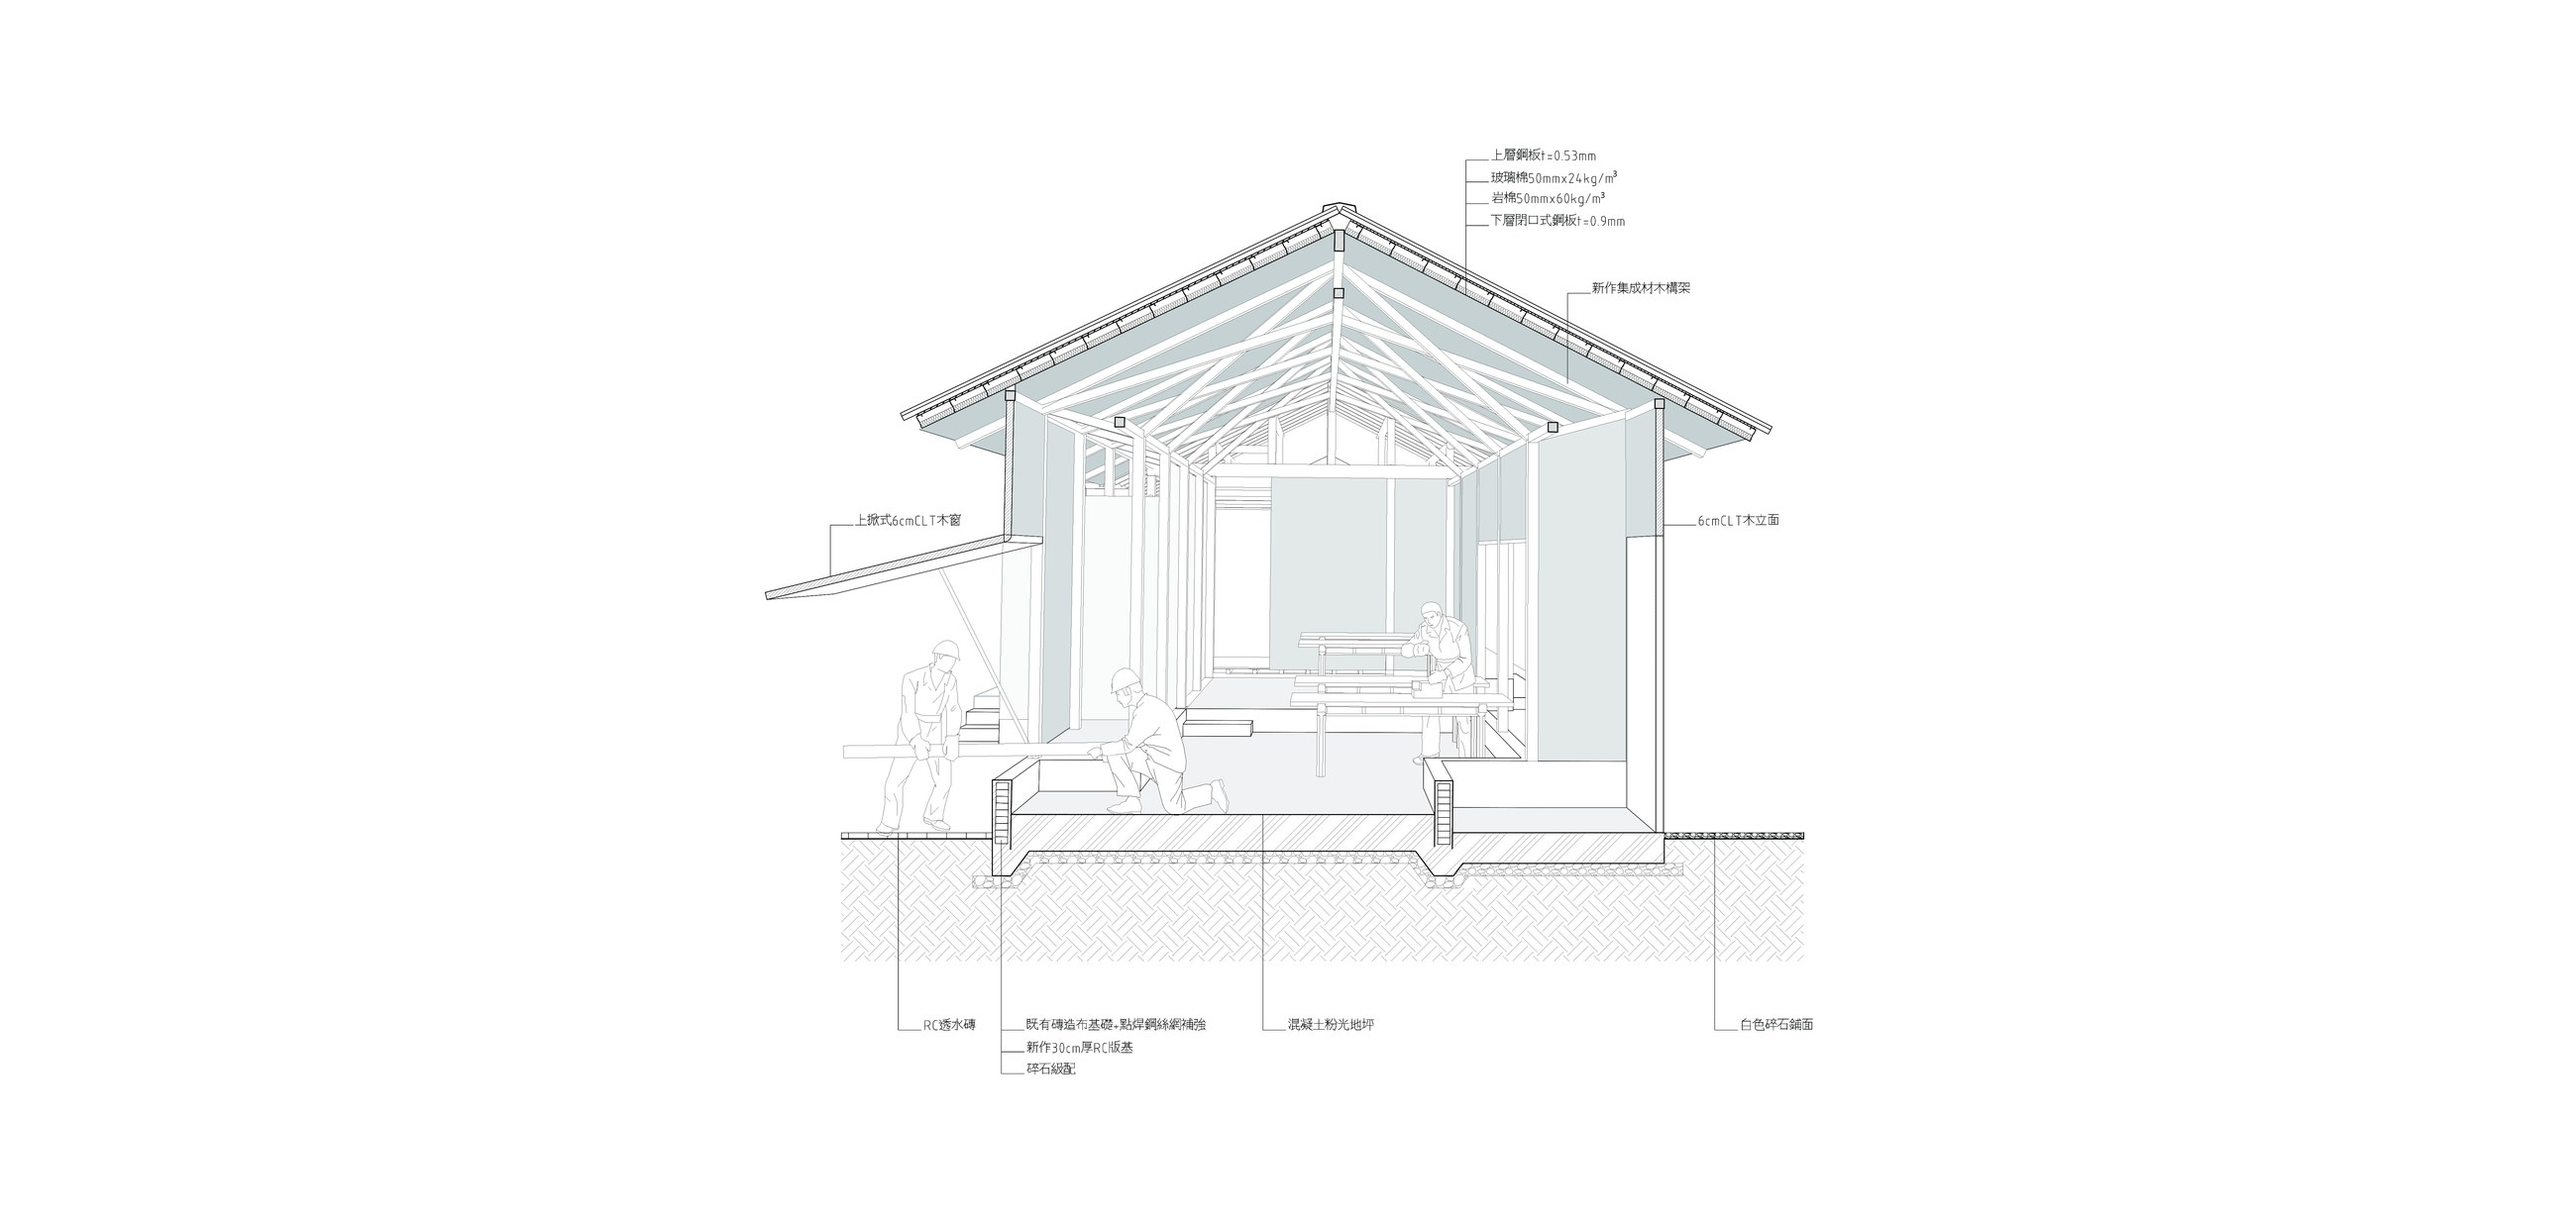
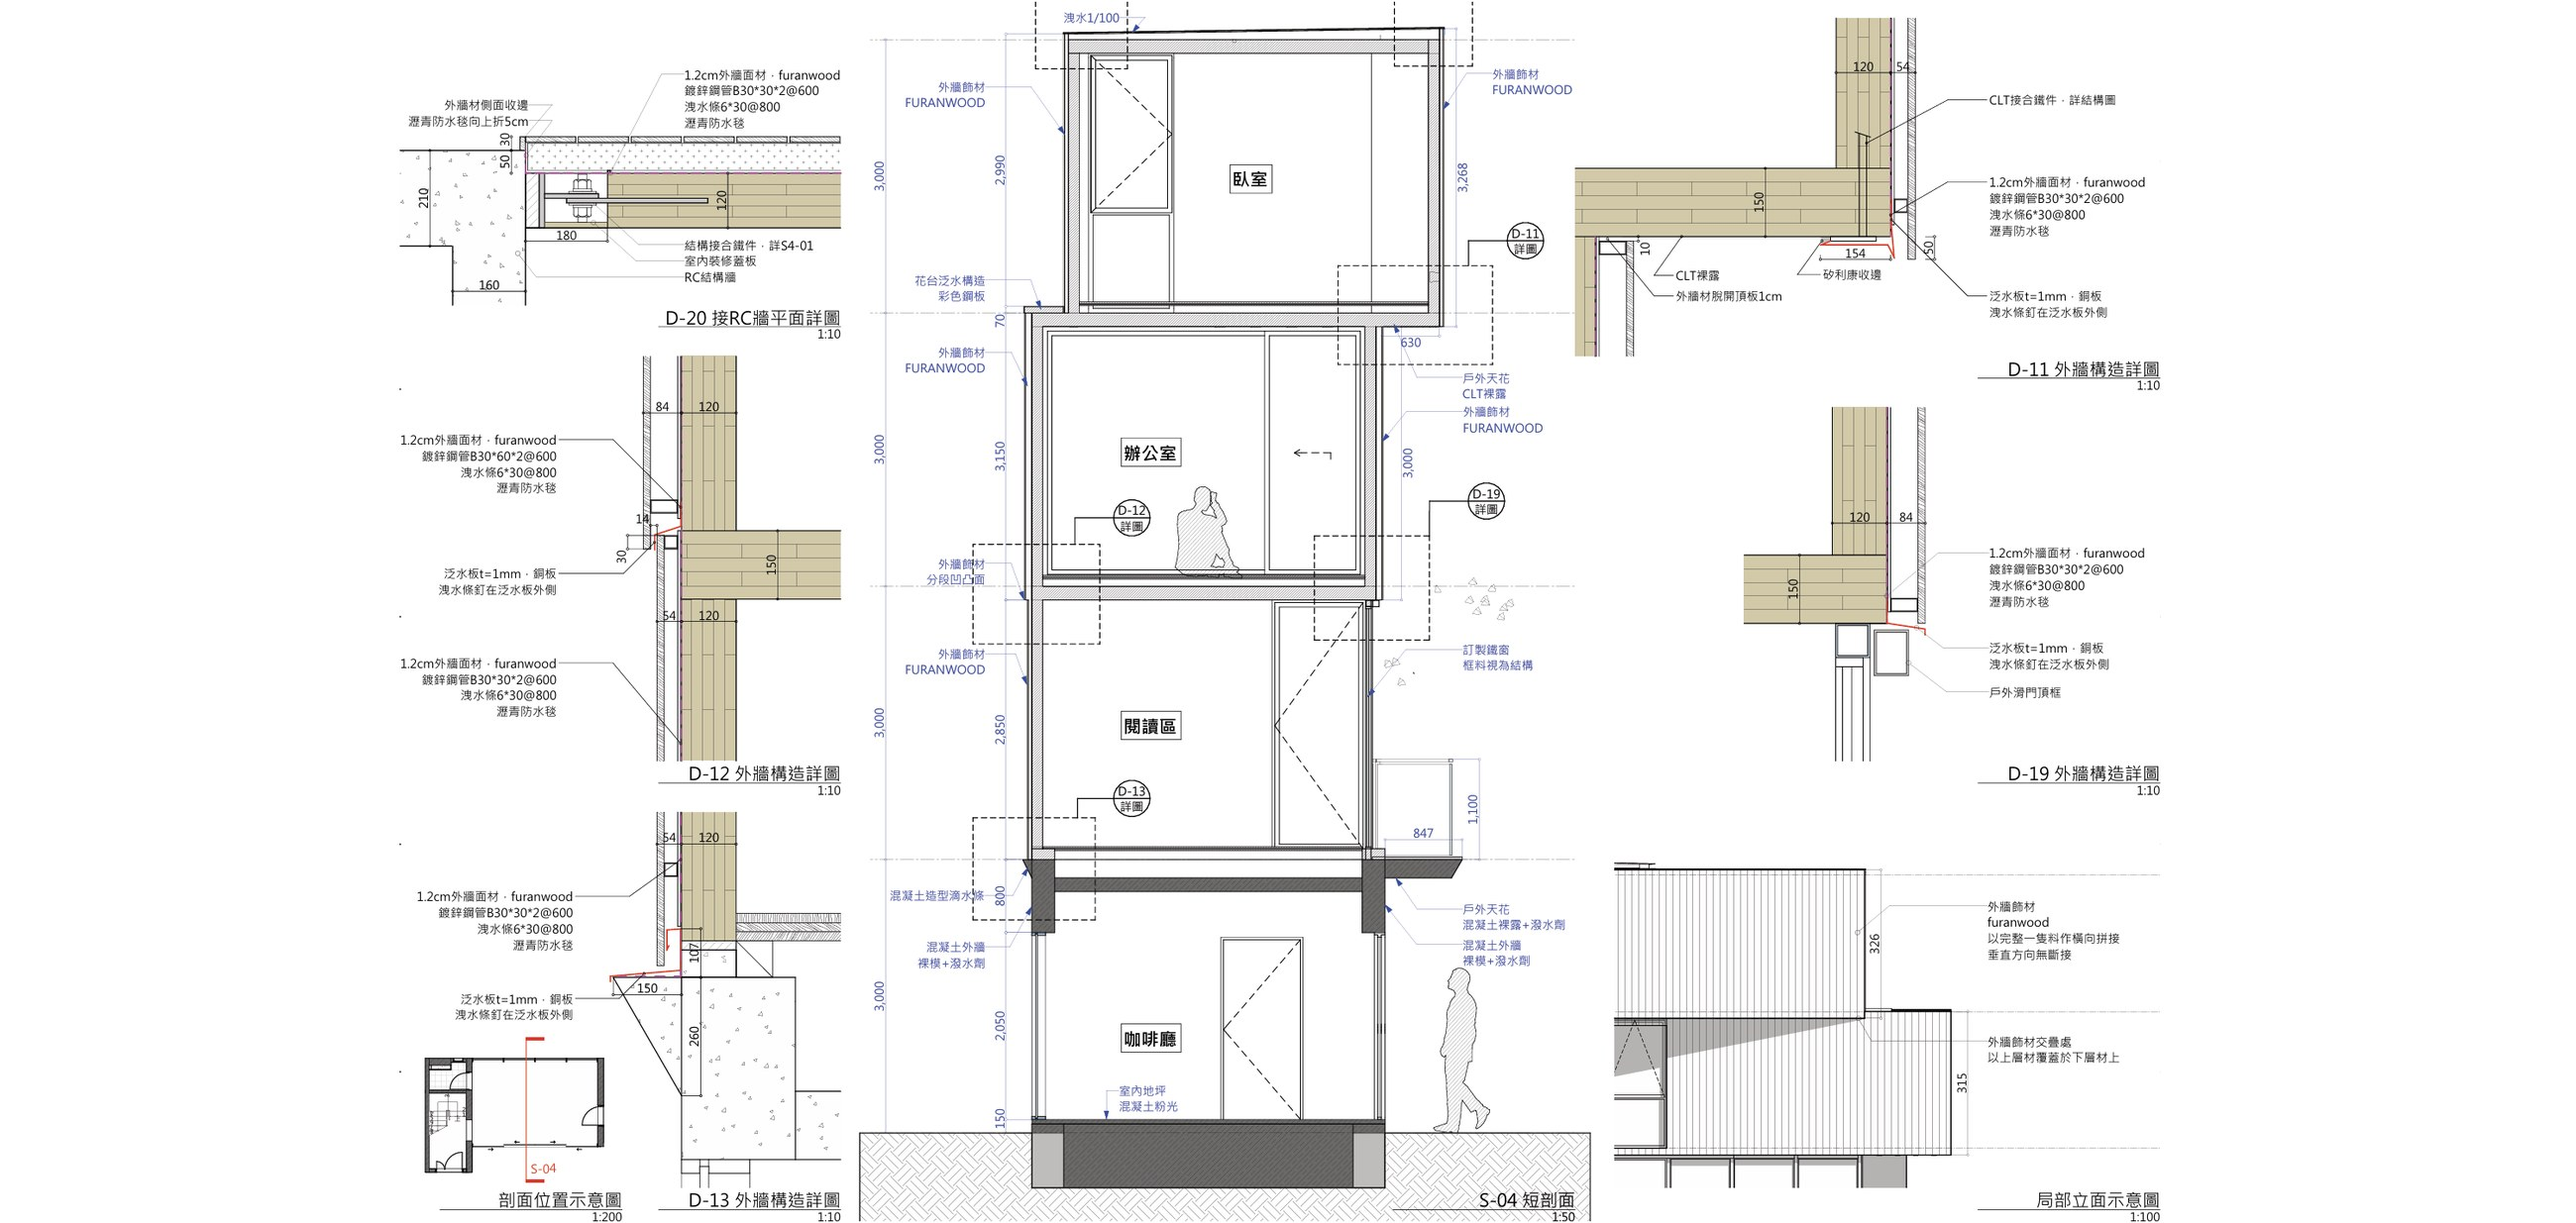
Swap particle content, drop hero X, update digital thumbnails
- Particle effect source image replaced: now renders "以「原型」為設計"
  (rendered via headless-browser screenshot in the site's own Noto Serif
  TC, matching the previous banner.png's style) instead of "原型 X 建築".
- Hero headline: dropped the "×" between 原型/建築 ("原型建築"), and the
  subtitle changed from "Prototype architecture" to "AS.Studio".
- 原型數位 slider thumbnails swapped from 6 real photos to 13 new
  isometric structural-joint icon illustrations; the carousel now uses
  object-contain (not -cover) with a black container background so the
  icons render fully uncropped instead of zoomed/cropped like photos.
- detail-main.jpg (原型細部 small banner) updated to the latest supplied
  screenshot.

Verified with a clean NODE_ENV=production build and Playwright checks
before pushing. Also synced the digital thumbnails, detail-main.jpg, and
their chapter-digital.json/chapter-detail.json CMS entries to
Internal-Pages in earlier steps, since that CMS layer overrides these
same fields at runtime when present.

diff --git a/src/app/page.tsx b/src/app/page.tsx
@@ -128,12 +128,19 @@ const EXHIBIT_THUMB_INTERVAL_MS = 2000;
 // Section 9 (Chapter 04, 原型數位) thumbnail carousel — same template as
 // the other chapters.
 const DIGITAL_THUMBS: string[] = [
-  "digital-thumb-1.jpg",
-  "digital-thumb-2.jpg",
-  "digital-thumb-3.jpg",
-  "digital-thumb-4.jpg",
-  "digital-thumb-5.jpg",
-  "digital-thumb-6.jpg",
+  "digital-thumb-1.png",
+  "digital-thumb-2.png",
+  "digital-thumb-3.png",
+  "digital-thumb-4.png",
+  "digital-thumb-5.png",
+  "digital-thumb-6.png",
+  "digital-thumb-7.png",
+  "digital-thumb-8.png",
+  "digital-thumb-9.png",
+  "digital-thumb-10.png",
+  "digital-thumb-11.png",
+  "digital-thumb-12.png",
+  "digital-thumb-13.png",
 ];
 const DIGITAL_THUMB_INTERVAL_MS = 2000;
 
@@ -734,13 +741,13 @@ export default function Home() {
                 letterSpacing: "0.15em",
               }}
             >
-              原型<span className="mx-3 sm:mx-5">×</span>建築
+              原型建築
             </h2>
             <p
               className="mt-5 text-[0.9rem] text-white/60 sm:text-[1.2rem]"
               style={{ letterSpacing: "0.3em" }}
             >
-              Prototype architecture
+              AS.Studio
             </p>
           </div>
         </div>
@@ -1369,14 +1376,23 @@ export default function Home() {
         chapters. Deliberately NOT h-screen, same reasoning as Section 4/5/7. */}
     <section className="flex w-full flex-col items-start gap-10 bg-black px-[6%] pt-[9vh] lg:flex-row lg:gap-[8%]">
       <div className="flex w-full flex-col lg:w-[26%]">
-        <div className="relative aspect-[4/3] w-full overflow-hidden bg-white/10">
+        {/* bg-black (not bg-white/10 like the other chapters) — these are
+            object-contain icon illustrations, not cropped-to-fill photos,
+            so the empty space around each icon shows the container's own
+            background. bg-white/10 read as grey against the page's black;
+            these icons are already on a black background themselves. */}
+        <div className="relative aspect-[4/3] w-full overflow-hidden bg-black">
           {digitalThumbSrcs.map((src, i) => (
             <Image
               key={src}
               src={src}
               alt={`原型數位 縮圖 ${i + 1}`}
               fill
-              className="object-cover transition-opacity duration-700"
+              // object-contain (not -cover, like the other chapters) since
+              // these are icon illustrations, not photos — they need to
+              // stay fully visible/uncropped, scaled proportionally to
+              // fit the box instead of cropped to fill it.
+              className="object-contain transition-opacity duration-700"
               style={{ opacity: i === digitalThumbIndex ? 1 : 0 }}
             />
           ))}
